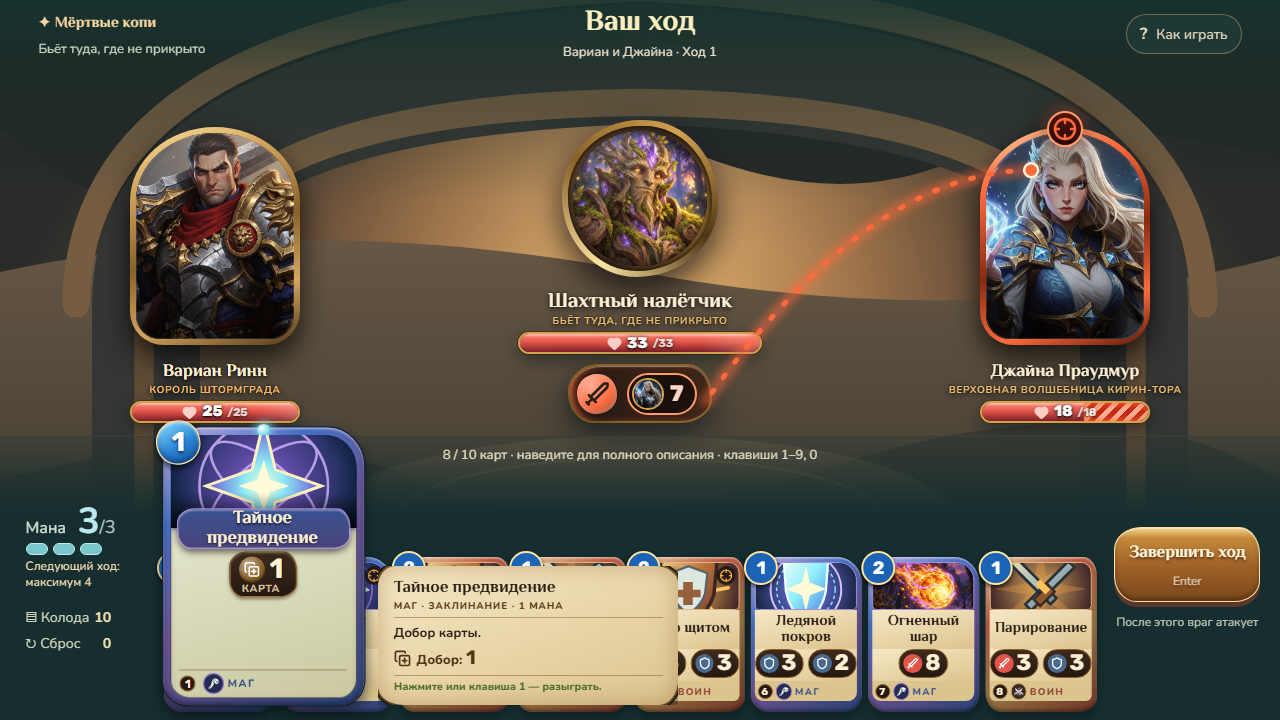
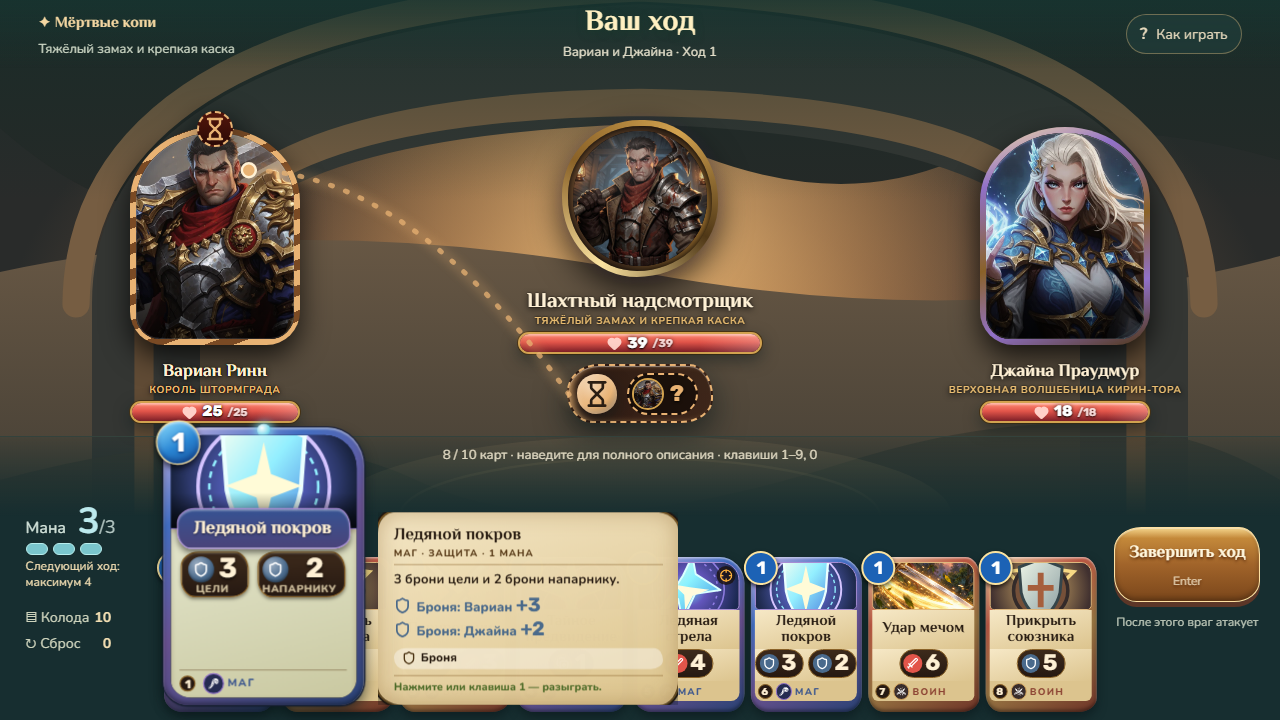
Resolve campaign enemy portrait IDs

diff --git a/src/game/cardPoolExpansion.test.ts b/src/game/cardPoolExpansion.test.ts
@@ -240,6 +240,7 @@ describe('Card Pool Expansion v0.1', () => {
     const cardPreview = previewCard(state, cardDefinition('ice-echo'))
     expect(cardNotes(cardDefinition('ice-echo'), cardPreview).description).toBe(cardDefinition('ice-echo').description)
     expect(resolveEnemyPortrait('goblin-powder-runner')).toMatchObject({ fallback: false })
+    expect(resolveEnemyPortrait('defias-lookout/layer-3-column-2').src).toContain('enemy-defias-lookout-krea.webp')
     expect(resolveEnemyPortrait('mine-overseer').src).toContain('enemy-mine-overseer-krea.webp')
     expect(resolveEnemyPortrait('defias-veteran').src).toContain('enemy-defias-veteran.jpg')
     expect(resolveEnemyPortrait('defias-lookout').src).toContain('enemy-defias-lookout-krea.webp')

diff --git a/src/ui/enemyArt.ts b/src/ui/enemyArt.ts
@@ -32,6 +32,9 @@ export function resolveEnemyPortrait(
   encounterId: string,
   portraits: Readonly<Partial<Record<string, string>>> = enemyPortraitsByEncounterId,
 ): ResolvedEnemyPortrait {
-  const src = portraits[encounterId]
+  // Campaign battles append a map-node suffix (for example `defias-lookout/layer-3-column-2`)
+  // to keep encounter instances distinct. Art remains keyed by the stable catalog ID.
+  const stableEncounterId = encounterId.replace(/\/layer-\d+-column-\d+$/, '')
+  const src = portraits[stableEncounterId]
   return src ? { src, fallback: false } : { src: fallbackPortrait, fallback: true }
 }

diff --git a/ASSET_MANIFEST.md b/ASSET_MANIFEST.md
@@ -180,7 +180,7 @@
 
 ## Интеграция пользовательских портретов Krea v0.1
 
-Исходные PNG предоставлены пользователем и сохранены без изменений в `src/assets/art/`. Игровые компоненты импортируют только перечисленные ниже оптимизированные WebP 768×768; Vite включает только импортированные файлы, поэтому исходные PNG и неиспользованные варианты не попадают в production bundle. Все Krea-изображения — рабочие варианты, не финально утверждённые портреты. Стабильные encounter ID и fallback сохранены.
+Исходные PNG предоставлены пользователем и сохранены без изменений в `src/assets/art/`. Игровые компоненты импортируют только перечисленные ниже оптимизированные WebP 768×768; Vite включает только импортированные файлы, поэтому исходные PNG и неиспользованные варианты не попадают в production bundle. Все Krea-изображения — рабочие варианты, не финально утверждённые портреты. Стабильные encounter ID и fallback сохранены. Динамический суффикс узла карты (`/layer-N-column-N`) снимается при поиске арта, поэтому каждая копия встречи использует портрет базового encounter ID.
 
 | Персонаж / encounter ID | Прежний игровой арт | Новый игровой файл | Исходник | Статус и решение |
 |---|---|---|---|---|
